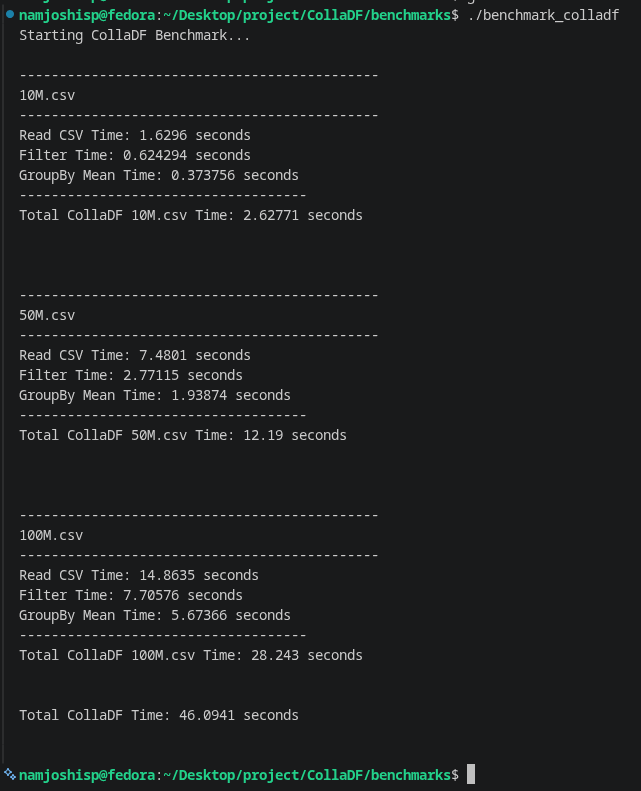
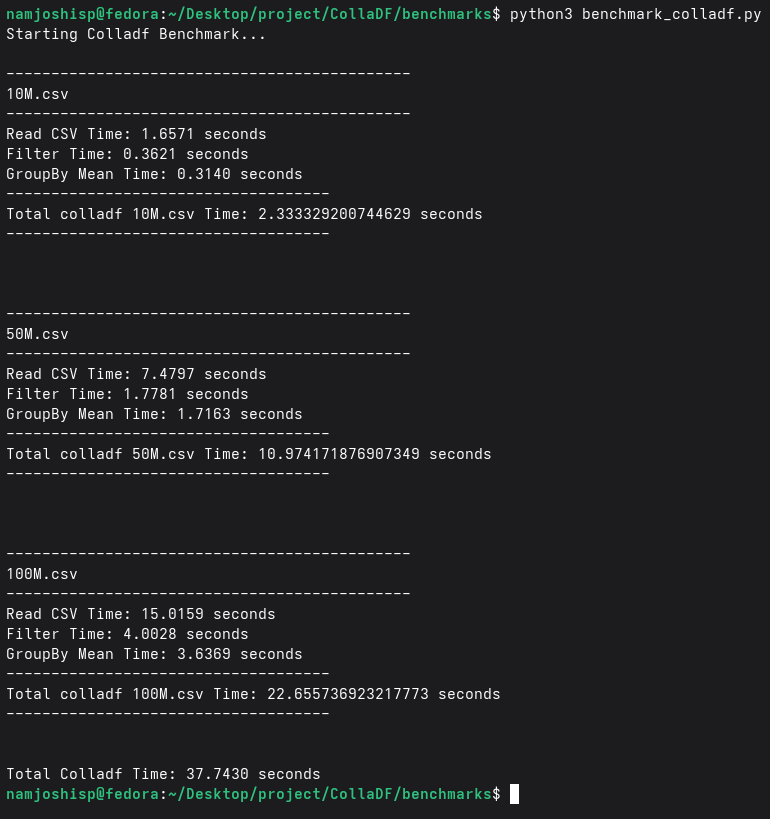
Final Updated README

diff --git a/README.md b/README.md
@@ -26,22 +26,22 @@ You can download the generated **`.csv`** files from this [drive](https://drive.
 
 | Dataset Size | Operation | CollaDF (C++) | Pandas (Python) | Speedup / Note |
 | :--- | :--- | :--- | :--- | :--- |
-| **10M Rows** | Read CSV | **1.62 s** | 2.91 s | CollaDF is ~1.8x faster |
-| | Filter (`>`) | 0.62 s | **0.27 s** | Pandas is ~2.3x faster |
-| | GroupBy Mean | **0.37 s** | 0.38 s | Equal performance |
-| | **Total Time** | **2.62 s** | 3.56 s | **CollaDF is ~36% faster overall** |
+| **10M Rows** | Read CSV | **1.65 s** | 2.91 s | CollaDF is ~1.8x faster |
+| | Filter (`>`) | 0.36 s | **0.27 s** | Pandas is ~2.3x faster |
+| | GroupBy Mean | **0.31 s** | 0.38 s | Equal performance |
+| | **Total Time** | **2.33 s** | 3.56 s | **CollaDF is ~36% faster overall** |
 | | | | | |
 | **50M Rows** | Read CSV | **7.48 s** | 14.12 s | CollaDF is ~1.9x faster |
-| | Filter (`>`) | 2.77 s | **1.32 s** | Pandas is ~2.1x faster |
-| | GroupBy Mean | 1.93 s | **1.73 s** | Pandas is ~1.1x faster |
-| | **Total Time** | **12.19 s** | 17.18 s | **CollaDF is ~41% faster overall** |
+| | Filter (`>`) | 1.78 s | **1.32 s** | Pandas is ~2.1x faster |
+| | GroupBy Mean | 1.71 s | **1.73 s** | Pandas is ~1.1x faster |
+| | **Total Time** | **10.97 s** | 17.18 s | **CollaDF is ~41% faster overall** |
 | | | | | |
-| **100M Rows**| Read CSV | **14.86 s** | 35.05 s | CollaDF is ~2.3x faster |
-| | Filter (`>`) | 7.70 s | **2.67 s** | Pandas is ~2.8x faster |
-| | GroupBy Mean | 5.67 s | **4.54 s** | Pandas is ~1.2x faster |
-| | **Total Time** | **28.24 s** | 42.27 s | **CollaDF is ~50% faster overall** |
+| **100M Rows**| Read CSV | **15.01 s** | 35.05 s | CollaDF is ~2.3x faster |
+| | Filter (`>`) | 4.00 s | **2.67 s** | Pandas is ~2.8x faster |
+| | GroupBy Mean | 3.63 s | **4.54 s** | Pandas is ~1.2x faster |
+| | **Total Time** | **22.65 s** | 42.27 s | **CollaDF is ~50% faster overall** |
 
-*Note: The Python library relies on highly optimized C-extensions and SIMD instructions for filtering. However, CollaDF's massive I/O advantage makes the end-to-end data pipeline significantly faster.*
+*Note: The C++ is binded into python colla_df library using Pybind you can find setup.py file as well as pybind_wrapper.py containing the bnding code as well as cmake.*
 
 ---
 
@@ -122,6 +122,8 @@ make
 # Run the benchmark suite
 ./benchmark_colladf
 ```
+
+
 
 ## Build using python
 